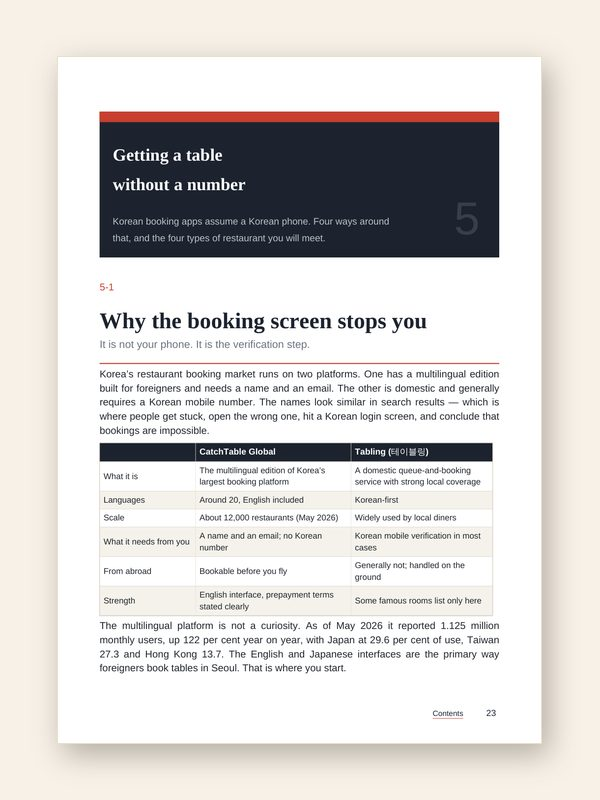
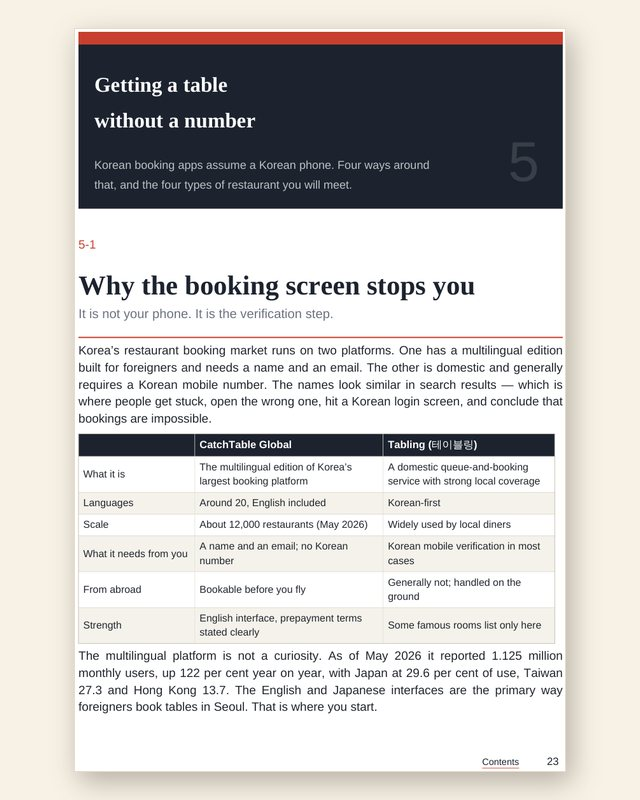
fix(hub): show the preview pages one per row on a phone, cropped to their content
Two thumbnails side by side made the map page's cards unreadable; each page
now fills its own frame and the pair stacks under 560px.

diff --git a/hub/hub.css b/hub/hub.css
@@ -267,9 +267,9 @@ footer.bot a{color:var(--brand)}
 .prev-eyebrow{margin:0 0 3px;font-size:11.5px;font-weight:800;letter-spacing:.08em;color:#a9512c}
 .prev h2{font-size:18.5px;line-height:1.34;margin:0 0 7px;letter-spacing:-.012em;color:#2b2620}
 .prev-sub{margin:0 0 13px;font-size:12.8px;line-height:1.62;color:var(--ink2)}
-.shots{display:grid;grid-template-columns:1fr 1fr;gap:9px;margin:0 0 4px}
+.shots{display:grid;grid-template-columns:1fr;gap:12px;margin:0 0 4px}
 .shot{margin:0;min-width:0}
-.shot img{display:block;width:100%;height:auto;aspect-ratio:3/4;object-fit:cover;border-radius:15px;
+.shot img{display:block;width:100%;height:auto;aspect-ratio:4/5;object-fit:cover;border-radius:15px;
   border:1px solid #eddfcd;background:#f8f2e8;box-shadow:0 6px 16px -12px rgba(35,30,24,.7)}
 .shot figcaption{margin:6px 2px 0;font-size:11.5px;line-height:1.45;color:var(--ink3)}
 .prev h3{font-size:14.5px;margin:17px 0 9px;letter-spacing:-.005em;color:#2b2620}
@@ -290,7 +290,7 @@ footer.bot a{color:var(--brand)}
 .prev-qr[hidden]{display:none}
 .prev-qr img{flex:0 0 auto;border:1px solid #eddfcd;border-radius:10px;background:#fff}
 .prev-qr p{margin:0;font-size:12.3px;line-height:1.6;color:#3f3a33}
-@media(min-width:620px){
+@media(min-width:560px){
   .shots{grid-template-columns:1fr 1fr;gap:12px}
   .prev{padding:20px 18px 15px}
   .prev h2{font-size:20px}

diff --git a/index.html b/index.html
@@ -131,12 +131,12 @@
 
     <div class="shots">
       <figure class="shot">
-        <img src="hub/img/prev-guide.jpg" width="600" height="800" loading="lazy" decoding="async"
+        <img src="hub/img/prev-guide.jpg" width="640" height="800" decoding="async"
              data-i18n-alt="prev.altGuide" alt="A real page from the 55-page Seoul guide">
         <figcaption data-i18n="prev.capGuide">55-page guide · page 23, as sold</figcaption>
       </figure>
       <figure class="shot">
-        <img src="hub/img/prev-map.jpg" width="600" height="800" loading="lazy" decoding="async"
+        <img src="hub/img/prev-map.jpg" width="640" height="800" decoding="async"
              data-i18n-alt="prev.altMap" alt="A real page from the 109-pin map pack">
         <figcaption data-i18n="prev.capMap">109-pin map pack · page 3, as sold</figcaption>
       </figure>
